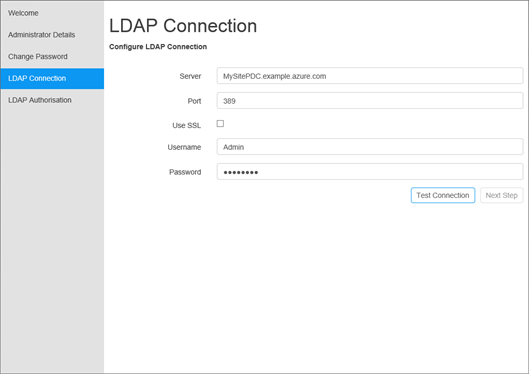
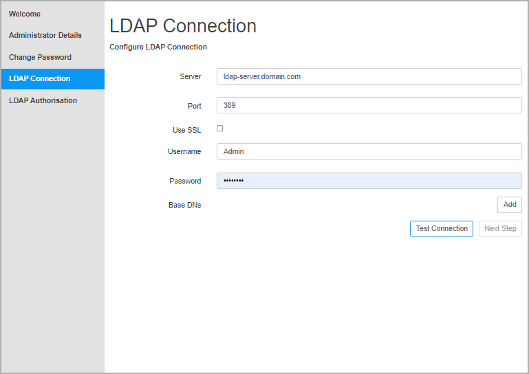
Renamed script bundles and added tde links

diff --git a/content/en/docs/getting-started/on-premise/multiple-server-with-ha.md b/content/en/docs/getting-started/on-premise/multiple-server-with-ha.md
@@ -217,18 +217,18 @@ We support the latest versions of the following browsers:
 1. Choose one of the Application Servers to be used for installation, and copy the following artefacts to a folder on it (the version numbers may differ):
    * Cortex Evolution - Innovation 2022.5 - Block Packages.zip
    * Cortex Evolution - Innovation 2022.5 - HA Services.zip
-   * Cortex Evolution - Innovation 2022.5 - Installation Scripts.zip
+   * Cortex Evolution - Innovation 2022.5 - Application Server Installation Scripts.zip
 
-1. Extract the `Cortex Evolution - Innovation 2022.5 - Installation Scripts.zip` file to a folder with the same name.
+1. Extract the `Cortex Evolution - Innovation 2022.5 - Application Server Installation Scripts.zip` file to a folder with the same name.
 
 ### Add Antivirus Exclusions
 
 1. If Windows Defender is not running on the Application Servers, ensure that the [Antivirus Exclusions][] have been added to the running antivirus software on each of the Application Servers and continue to the next step, otherwise follow these steps:
     1. Open a Windows PowerShell (x64) window as administrator.
-    1. Navigate PowerShell to inside the `Cortex Evolution - Innovation 2022.5 - Installation Scripts` folder using the following command, modifying the path as necessary:
+    1. Navigate PowerShell to inside the `Cortex Evolution - Innovation 2022.5 - Application Server Installation Scripts` folder using the following command, modifying the path as necessary:
 
         ```powershell
-        cd "C:\Install\Cortex Evolution - Innovation 2022.5 - Installation Scripts"
+        cd "C:\Install\Cortex Evolution - Innovation 2022.5 - Application Server Installation Scripts"
         ```
 
     1. Run the `Cortex.Innovation.Add.WindowsDefenderExclusions.ps1` script using the following command, modifying the `ApplicationServers` value to contain the NETBIOS names or fully qualified domain names of the Application Servers:
@@ -241,10 +241,10 @@ We support the latest versions of the following browsers:
 
 1. To check all necessary ports are free, follow these steps.
     1. Open a Windows PowerShell (x64) window as administrator.
-    1. Navigate PowerShell to inside the `Cortex Evolution - Innovation 2022.5 - Installation Scripts` folder using the following command, modifying the path as necessary:
+    1. Navigate PowerShell to inside the `Cortex Evolution - Innovation 2022.5 - Application Server Installation Scripts` folder using the following command, modifying the path as necessary:
 
         ```powershell
-        cd "C:\Install\Cortex Evolution - Innovation 2022.5 - Installation Scripts"
+        cd "C:\Install\Cortex Evolution - Innovation 2022.5 - Application Server Installation Scripts"
         ```
 
     1. Run the `Cortex.Innovation.Test.PortUsage.ps1` script using the following command, modifying the `ApplicationServers` value to contain the NETBIOS names or fully qualified domain names of the Application Servers:
@@ -257,13 +257,13 @@ We support the latest versions of the following browsers:
 
         `All ports required by Cortex Innovation are free`
 
-        If this is the case, continue to the next step. Otherwise, consult the messages returned by the script, which will give details about how to modify the `Cortex.Innovation.Install.Config.json` configuration file, in the `Cortex Evolution - Innovation 2022.5 - Installation Scripts` folder, to use different ports. This will be used later during installation.
+        If this is the case, continue to the next step. Otherwise, consult the messages returned by the script, which will give details about how to modify the `Cortex.Innovation.Install.Config.json` configuration file, in the `Cortex Evolution - Innovation 2022.5 - Application Server Installation Scripts` folder, to use different ports. This will be used later during installation.
 
         The `Cortex.Innovation.Test.PortUsage.ps1` script cannot currently re-check modified ports in the configuration file so these need to be manually checked to see that they are free.
 
 ### Configure Installation Script
 
-1. In the `Cortex Evolution - Innovation 2022.5 - Installation Scripts` folder, locate the `Cortex.Innovation.Install.ps1` script and open it with a text editor.
+1. In the `Cortex Evolution - Innovation 2022.5 - Application Server Installation Scripts` folder, locate the `Cortex.Innovation.Install.ps1` script and open it with a text editor.
 1. Choose the tab below that matches the configuration for this installation, then update the script to match, changing the parameters according to the details given below:
 
     {{< tabpane lang="powershell" >}}
@@ -351,10 +351,10 @@ More advanced configuration (such as changing ports) can be undertaken by modify
 ### Test Installation Script
 
 1. Open a Windows PowerShell (x64) window as administrator.
-1. Navigate PowerShell to inside the `Cortex Evolution - Innovation 2022.5 - Installation Scripts` folder using the following command, modifying the path as necessary:
+1. Navigate PowerShell to inside the `Cortex Evolution - Innovation 2022.5 - Application Server Installation Scripts` folder using the following command, modifying the path as necessary:
 
     ```powershell
-    cd "C:\Install\Cortex Evolution - Innovation 2022.5 - Installation Scripts"
+    cd "C:\Install\Cortex Evolution - Innovation 2022.5 - Application Server Installation Scripts"
     ```
 
 1. Test `Cortex.Innovation.Install.ps1` by running the following command:

diff --git a/content/en/docs/getting-started/on-premise/setup-gateway.md b/content/en/docs/getting-started/on-premise/setup-gateway.md
@@ -5,19 +5,19 @@ description: >
     Information on setting up Cortex Gateway for first-time use.
 ---
 
-### Cortex Gateway Initial Setup
+## Cortex Gateway Initial Setup
 
 Log on to Cortex Gateway and run through the setup wizard
 
 1. Navigate to `<protocol>://<host>:<port>/<webapplicationname>`, e.g. `https://localhost/gateway`.
-2. Log on using the default credentials that the solution deploys with:
+1. Log on using the default credentials that the solution deploys with:
     Username: `administrator`
     Password: `Adm1n1strat0r`
-3. On a newly installed system, you will be presented with a Setup Wizard at this point, see Figure 146, which will guide you through some basic configuration steps:
+1. On a newly installed system, you will be presented with a Setup Wizard at this point, which will guide you through some basic configuration steps:
     * Account details
     * LDAP Connection
     * LDAP Authorization
-4. Follow the steps in the setup wizard to configure the relevant areas – for more detail refer to "Section 2.1 Initial Configuration" in the Cortex Integrity - Studio Admin Guide which can be found on the Cortex Application server in the C:\Cortex\Help\PDF - TODO: Sort this out
+1. Follow the steps in the setup wizard to configure the relevant areas:
     1. Click `Next Step`:
     {{< figure class="centre" src="/images/Gateway Setup1.png" title="Initial Setup Screen" >}}
     2. Enter an email address for the Administrator:
@@ -25,11 +25,38 @@ Log on to Cortex Gateway and run through the setup wizard
     3. Change the Administrator password to a unique, secret password:
     {{< figure class="centre" src="/images/Gateway Setup3.png" title="Change Password Screen" >}}
     4. Enter the details of your LDAP server and provide a Username and Password for a user with read access to the LDAP server:
-    {{< figure class="centre" src="/images/Gateway Setup4.png" title="LDAP Connection Scree" >}}
-    5. Click `Next Step`. If this fails first time round, just click `Retry`.
-    6. Assign Studio access permissions to LDAP users (or groups):
+        A connection to an Active Directory or an LDAP server must be established in order to assign authorisation rights to users.
+        1. In the Server field, enter the Hostname, FQDN or IP Address of the LDAP Server that Cortex Gateway should use to authenticate and authorise users.
+        1. In the Port field, enter the port number of the LDAP Server. The well-known port for LDAP traffic is `389`; if SSL encryption is used, the well-known port is `636`.
+        1. If an SSL connection is to be used, tick the box `Use SSL`.
+        1. In the `Username` field, enter a valid username or a user that has read permissions for the LDAP Server.
+        1. In the `Password` field, enter the password of the user entered in the previous step.
+        1. To reduce the scope of the LDAP, add one or more base DNs (Distinguished Names). For each base DN click `Add` and enter the full LDAP path e.g `CN=group, OU=organisational unit, DC=domain, DC=com`. These will be used as the roots of the LDAP search. For more information about distinguished names see https://msdn.microsoft.com/en-us/library/aa366101(v=vs.85).aspx.
+        1. Click `Test Connection` to validate the connection and the user credentials entered.
+        1. Click `Next Step`.
+
+        {{< figure class="centre" src="/images/Gateway Setup4.png" title="LDAP Connection Screen" >}}
+
+    1. Click `Next Step`. If the authorisation grid fails to load first time round, just click `Retry`.
+    1. Assign Studio access permissions to LDAP users (or groups):
+    To allow users to access the various roles within Cortex, it is first necessary to assign them the appropriate access rights.
+    Cortex currently supports four roles:
+
+        * Admin
+        * LiveView
+        * Reporting
+        * Studio
+
+        To give a user access to a role, set access for an LDAP group or OU that the user is a member of:
+
+        1. Expand the LDAP Groups or Organisational Units, or search for the group or OU, to be assigned authorisation. The LDAP Name or LDAP Type columns may be ordered alphabetically ascending or descending by clicking the down-arrow to the right of the column name and selecting the appropriate menu option.
+        1. Click the intersection between the LDAP Group or OU and the role to be assigned to explicitly set authorisation.
+        1. Click `Complete Setup` to commit the changes.
+
     {{< figure class="centre" src="/images/Gateway Setup5.png" title="LDAP Authorisation Screen" >}}
 
 ## Configure the Cortex Databases to use Transparent Data Encryption
 
-Once Cortex Gateway has been configured, if you wish to encrypt the databases using TDE for improved security, this should now be performed. TODO: Link
+Once Cortex Gateway has been configured, if you wish to encrypt the databases using TDE for improved security, this should now be performed by following the steps in [Configuring TDE][].
+
+[Configuring TDE]: {{< url "Cortex.GettingStarted.OnPremise.MultipleServerWithHA.Advanced.ApplyTDE" >}}

diff --git a/content/en/docs/getting-started/on-premise/install-web-application-server.md b/content/en/docs/getting-started/on-premise/install-web-application-server.md
@@ -11,9 +11,9 @@ description: >
    * Cortex Evolution - Innovation 2022.5 - Block Packages.zip
    * Cortex Evolution - Innovation 2022.5 - Gateway.zip
    * Cortex Evolution - Innovation 2022.5 - Flow Debugger Service.zip
-   * Cortex Evolution - Innovation 2022.5 - Web Application Installation Scripts.zip
+   * Cortex Evolution - Innovation 2022.5 - Web Application Server Installation Scripts.zip
 
-1. Extract the `Cortex Evolution - Innovation 2022.5 - Installation Scripts.zip` zip file to a folder with the same name.
+1. Extract the `Cortex Evolution - Innovation 2022.5 - Web Application Server Installation Scripts.zip` zip file to a folder with the same name.
 
 ## Install Prerequisites
 
@@ -66,10 +66,10 @@ To verify the certificate is imported:
 Installed the required features by following these instructions:
 
 1. Open a Windows PowerShell (x64) window as administrator.
-1. Navigate PowerShell to inside the `Cortex Evolution - Innovation 2022.5 - Installation Scripts` folder using the following command, modifying the path as necessary:
+1. Navigate PowerShell to inside the `Cortex Evolution - Innovation 2022.5 - Web Application Server Installation Scripts` folder using the following command, modifying the path as necessary:
 
     ```powershell
-    cd "C:\Install\Cortex Evolution - Innovation 2022.5 - Installation Scripts"
+    cd "C:\Install\Cortex Evolution - Innovation 2022.5 - Web Application Server Installation Scripts"
     ```
 
 1. Run the `Cortex.Innovation.Install.WindowsFeatures.ps1` script using the following command:
@@ -157,10 +157,10 @@ A collection of registry settings need to be applied to guarantee your server is
 Apply these security measures by following these instructions:
 
 1. Open a Windows PowerShell (x64) window as administrator.
-1. Navigate PowerShell to inside the `Cortex Evolution - Innovation 2022.5 - Installation Scripts` folder using the following command, modifying the path as necessary:
+1. Navigate PowerShell to inside the `Cortex Evolution - Innovation 2022.5 - Web Application Server Installation Scripts` folder using the following command, modifying the path as necessary:
 
     ```powershell
-    cd "C:\Install\Cortex Evolution - Innovation 2022.5 - Installation Scripts"
+    cd "C:\Install\Cortex Evolution - Innovation 2022.5 - Web Application Server Installation Scripts"
     ```
 
 1. Run the `Cortex.Innovation.Install.SSLBestPractises.ps1` script using the following command:
@@ -267,7 +267,7 @@ If the site hosting the gateway web application is a newly created Cortex site o
 
 ### Configure Installation Script
 
-1. In the `Cortex Evolution - Innovation 2022.5 - Installation Scripts` folder, locate the `Cortex.Innovation.Install.FlowDebuggerService.ps1` script and open it with a text editor.
+1. In the `Cortex Evolution - Innovation 2022.5 - Web Application Server Installation Scripts` folder, locate the `Cortex.Innovation.Install.FlowDebuggerService.ps1` script and open it with a text editor.
 1. Configure the script according to the details given below:
 
     ```powershell
@@ -288,10 +288,10 @@ If the site hosting the gateway web application is a newly created Cortex site o
 ### Run Installation Script
 
 1. Open a Windows PowerShell (x64) window as administrator.
-1. Navigate PowerShell to inside the `Cortex Evolution - Innovation 2022.5 - Installation Scripts` folder using the following command, modifying the path as necessary:
+1. Navigate PowerShell to inside the `Cortex Evolution - Innovation 2022.5 - Web Application Server Installation Scripts` folder using the following command, modifying the path as necessary:
 
     ```powershell
-    cd "C:\Install\Cortex Evolution - Innovation 2022.5 - Installation Scripts"
+    cd "C:\Install\Cortex Evolution - Innovation 2022.5 - Web Application Server Installation Scripts"
     ```
 
 1. Install the Flow Debugger Service by running the following command (`Tee-Object` will write output to both the PowerShell console and a log file, `FilePath` can be changed if required):
@@ -420,3 +420,4 @@ If the site hosting the gateway web application is a newly created Cortex site o
 TODO: Link to setup
 
 [Create Self-Signed Certificates]: {{< url "Cortex.GettingStarted.OnPremise.MultipleServerWithHA.Advanced.CreateSelfSignedCertificates" >}}
+[Setup Gateway]: {{< url "Cortex.GettingStarted.OnPremise.MultipleServerWithHA.SetupGateway" >}}

diff --git a/content/en/docs/getting-started/on-premise/advanced/tde.md b/content/en/docs/getting-started/on-premise/advanced/tde.md
@@ -7,7 +7,7 @@ description: >
 
 ## Configure the Cortex Databases to use Transparent Data Encryption
 
-Once Cortex Gateway has been configured, if you wish to encrypt the databases using TDE for improved security, this should now be performed. TODO: Link
+Once the [Gateway Setup][] steps have been completed , if you wish to encrypt the databases using TDE for improved security, this should now be performed.
 
 Enabling TDE on the databases ensures that the data is encrypted on disk. The process to do this requires that you:
 
@@ -20,7 +20,7 @@ Enabling TDE on the databases ensures that the data is encrypted on disk. The pr
 To enable TDE on the suite of Cortex Databases you should complete the following steps:
 
 1. Open SQL Server Management Studio
-2. Open the Encrypt Databases using TDE.sql script included within the Supporting Scripts bundle. TODO: Where will we provide this?
+2. Open the `Cortex.Install.TDE.sql` script included within the `Cortex Evolution - Innovation 2022.5 - Web Application Server Installation Scripts` folder.
 {{% alert title="Note" %}}This script will attempt to encrypt all Cortex Databases that exist on the system. Any that do not exist will be skipped. If you do not wish to encrypt all existing Cortex Databases then you should contact Cortex Support for assistance with script modification.{{% /alert %}}
 3. Set the `@sPassword` parameter value to a password that you wish to use. {{% alert title="Note" %}} This password must be set to a value that is not a blank or empty string, it cannot be `null` and the script will not execute if it is not changed from the pre-populated value of `StrongPassword`. The password must also meet your system’s minimum security requirements.{{% /alert %}}
 4. You can change the names of the certificate and the name of the master key by changing the `@sCertName` and `@sKeyName` parameters if you so wish.
@@ -32,5 +32,7 @@ To enable TDE on the suite of Cortex Databases you should complete the following
 6. Once the parameters have been set appropriately you should now save the script.
 
     We recommended that the modified script is saved out to file (taking care to observe your own organisation's security policies for password management), before it is executed. This may help facilitate the support process if anything goes wrong.
-7. Click Execute to run the script. It may take several minutes to execute depending on the size of the databases.
+7. Click `Execute` to run the script. It may take several minutes to execute depending on the size of the databases.
 8. Once the script has completed successfully, you should move the backed-up certificate and master key to a secure location and the password specified should also be stored securely.
+
+[Gateway Setup]: {{< url "Cortex.GettingStarted.OnPremise.MultipleServerWithHA.SetupGateway" >}}

diff --git a/content/en/docs/getting-started/on-premise/advanced/self-signed-certificates.md b/content/en/docs/getting-started/on-premise/advanced/self-signed-certificates.md
@@ -25,7 +25,7 @@ Self-signed certificates should be generated using OpenSSL which is bundled in t
 1. Temporarily add OpenSSL to the Path environment variable of your system by running the following command, modifying the path according to the location of `openssl.exe` in the installation scripts on the machine:
 
     ```powershell
-    $env:PATH += ";C:\Cortex Evolution - Innovation 2022.5 - Installation Scripts\OpenSSL"
+    $env:PATH += ";C:\Cortex Evolution - Innovation 2022.5 - Web Application Server Installation Scripts\OpenSSL"
     ```
 
 1. Create the Root CA private key by running the following command:
